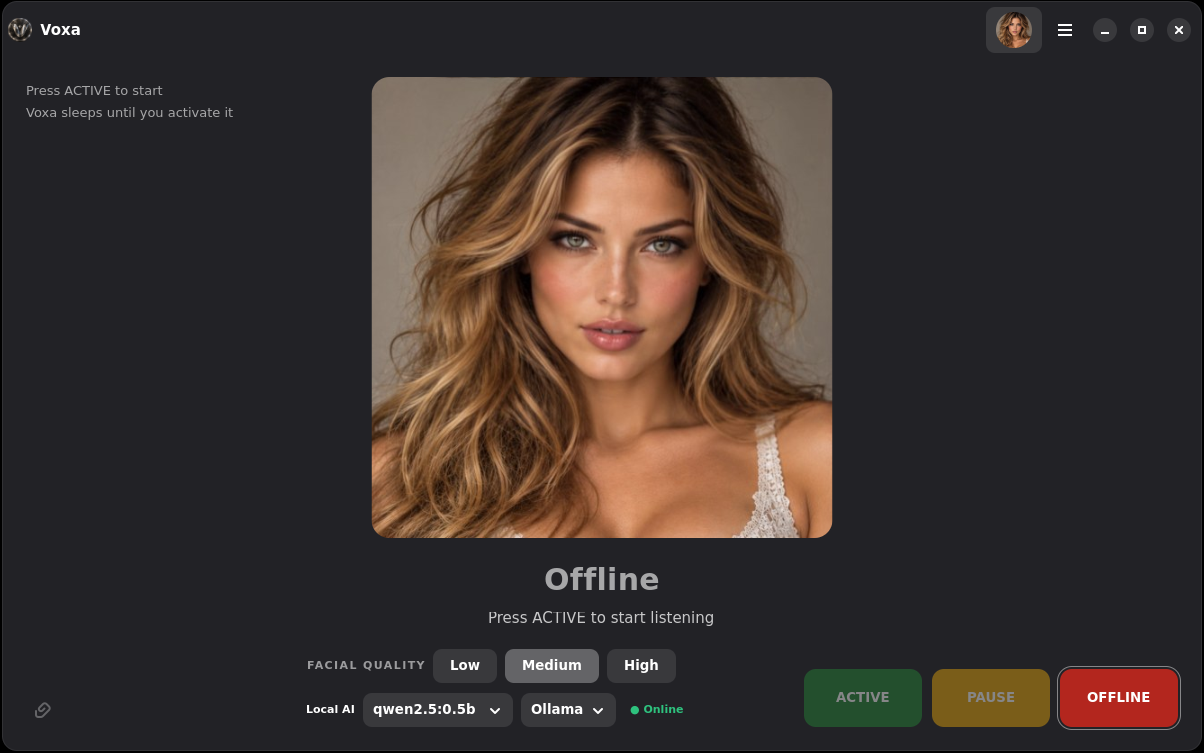
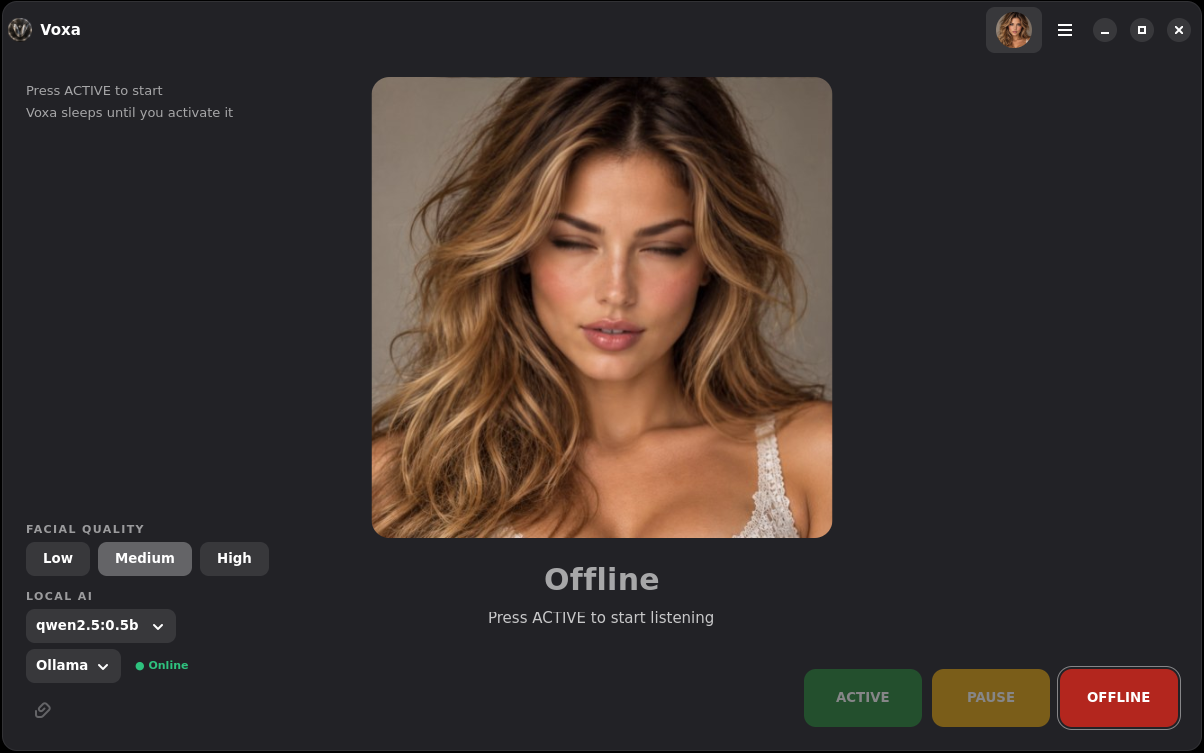
Facial quality and Local AI selectors move to the bottom-left corner
Each has its caption on its own line above the controls, so the block is
narrow enough for the left column at the minimum window size; the middle of
the window is left to the face and its caption. Screenshot refreshed.

diff --git a/voxa/ui/model_selector.py b/voxa/ui/model_selector.py
@@ -39,8 +39,13 @@ class ModelSelector(Gtk.Box):
         self,
         on_model_selected: Callable[[str], None] | None = None,
         on_backend_selected: Callable[[str], None] | None = None,
+        stacked: bool = False,
     ) -> None:
-        super().__init__(orientation=Gtk.Orientation.HORIZONTAL, spacing=8)
+        # ``stacked`` gives three short lines (label, model, engine + status): a narrow block for the left column.
+        super().__init__(
+            orientation=Gtk.Orientation.VERTICAL if stacked else Gtk.Orientation.HORIZONTAL,
+            spacing=6 if stacked else 8,
+        )
 
         label = Gtk.Label(label="Local AI")
         label.add_css_class("voxa-section")
@@ -70,14 +75,29 @@ class ModelSelector(Gtk.Box):
         self._dropdown.connect("notify::selected", self._on_selected)
         self._backend_dropdown.connect("notify::selected", self._on_backend_selected)
 
-        self.append(label)
-        self.append(self._dropdown)
-        self.append(self._backend_dropdown)
         # Whether the chosen AI engine is answering: a coloured dot and one word.
         self._status = Gtk.Label(label="")
         self._status.add_css_class("voxa-ai-status")
         self._status.set_visible(False)
-        self.append(self._status)
+        if stacked:
+            # Same look as the FACIAL QUALITY caption above it.
+            label.set_label("LOCAL AI")
+            label.remove_css_class("voxa-section")
+            label.add_css_class("voxa-control-caption")
+            label.set_xalign(0)
+            label.set_halign(Gtk.Align.START)
+            self._dropdown.set_halign(Gtk.Align.START)
+            engine_row = Gtk.Box(orientation=Gtk.Orientation.HORIZONTAL, spacing=8)
+            engine_row.append(self._backend_dropdown)
+            engine_row.append(self._status)
+            self.append(label)
+            self.append(self._dropdown)
+            self.append(engine_row)
+        else:
+            self.append(label)
+            self.append(self._dropdown)
+            self.append(self._backend_dropdown)
+            self.append(self._status)
         self._status_state = ""
 
     def set_status(self, state: str) -> None:

diff --git a/voxa/ui/shell.py b/voxa/ui/shell.py
@@ -152,22 +152,23 @@ class AssistantShell(Gtk.Overlay):
         self.model_selector = ModelSelector(
             on_model_selected=self._model_selected,
             on_backend_selected=self._backend_selected,
+            stacked=True,
         )
         self.character_picker = PortraitPicker(
             on_character_selected=self._character_selected,
         )
-        # Two short rows, centred: one long row ran underneath the ACTIVE / OFFLINE buttons.
-        self._bottom_controls = Gtk.Box(orientation=Gtk.Orientation.VERTICAL, spacing=10)
-        self.face_quality = FaceQualitySwitch(on_selected=self._face_mode_selected)
-        self.face_quality.set_halign(Gtk.Align.CENTER)
-        self.model_selector.set_halign(Gtk.Align.CENTER)
+        # Two narrow blocks in the bottom-left corner, above the attachment button: the middle of the
+        # window belongs to the face and its caption, the right to the ACTIVE / PAUSE / OFFLINE buttons.
+        self._bottom_controls = Gtk.Box(orientation=Gtk.Orientation.VERTICAL, spacing=14)
+        self.face_quality = FaceQualitySwitch(on_selected=self._face_mode_selected, stacked=True)
+        self.face_quality.set_halign(Gtk.Align.START)
+        self.model_selector.set_halign(Gtk.Align.START)
         self._bottom_controls.append(self.face_quality)
         self._bottom_controls.append(self.model_selector)
-        self._bottom_controls.set_halign(Gtk.Align.CENTER)
-        # Three status buttons sit bottom-right: nudge the centred rows left so a long model name clears them.
-        self._bottom_controls.set_margin_end(220)
+        self._bottom_controls.set_halign(Gtk.Align.START)
         self._bottom_controls.set_valign(Gtk.Align.END)
-        self._bottom_controls.set_margin_bottom(EDGE_MARGIN)
+        self._bottom_controls.set_margin_start(EDGE_MARGIN)
+        self._bottom_controls.set_margin_bottom(EDGE_MARGIN + 44)
         self.add_overlay(self._bottom_controls)
 
         self.status_controls = StatusControls(

diff --git a/voxa/ui/face_quality.py b/voxa/ui/face_quality.py
@@ -42,9 +42,14 @@ def mode_for_label(label: str) -> str:
 class FaceQualitySwitch(Gtk.Box):
     """A caption plus three linked toggle buttons (Low / Medium / High)."""
 
-    def __init__(self, on_selected: Callable[[str], None] | None = None) -> None:
-        super().__init__(orientation=Gtk.Orientation.HORIZONTAL, spacing=8)
+    def __init__(self, on_selected: Callable[[str], None] | None = None, stacked: bool = False) -> None:
+        # ``stacked`` puts the caption on its own line above the buttons: a narrow block for the left column.
+        super().__init__(
+            orientation=Gtk.Orientation.VERTICAL if stacked else Gtk.Orientation.HORIZONTAL,
+            spacing=6 if stacked else 8,
+        )
         self.on_selected = on_selected
+        row = Gtk.Box(orientation=Gtk.Orientation.HORIZONTAL, spacing=8) if stacked else self
 
         caption = Gtk.Label(label="FACIAL QUALITY")
         caption.set_xalign(0)
@@ -62,14 +67,16 @@ class FaceQualitySwitch(Gtk.Box):
             button.set_active(mode == self._mode)
             button.connect("clicked", self._make_click_handler(mode))
             self._buttons[mode] = button
-            self.append(button)
+            row.append(button)
 
         # What High is doing right now ("Loading the high-resolution face…"); empty and hidden otherwise.
         self._status = Gtk.Label(label="")
         self._status.set_xalign(0)
         self._status.add_css_class("voxa-control-caption")
         self._status.set_visible(False)
-        self.append(self._status)
+        row.append(self._status)
+        if stacked:
+            self.append(row)
 
     def set_status(self, text: str) -> None:
         """Show a short status after the buttons; an empty string hides it."""
